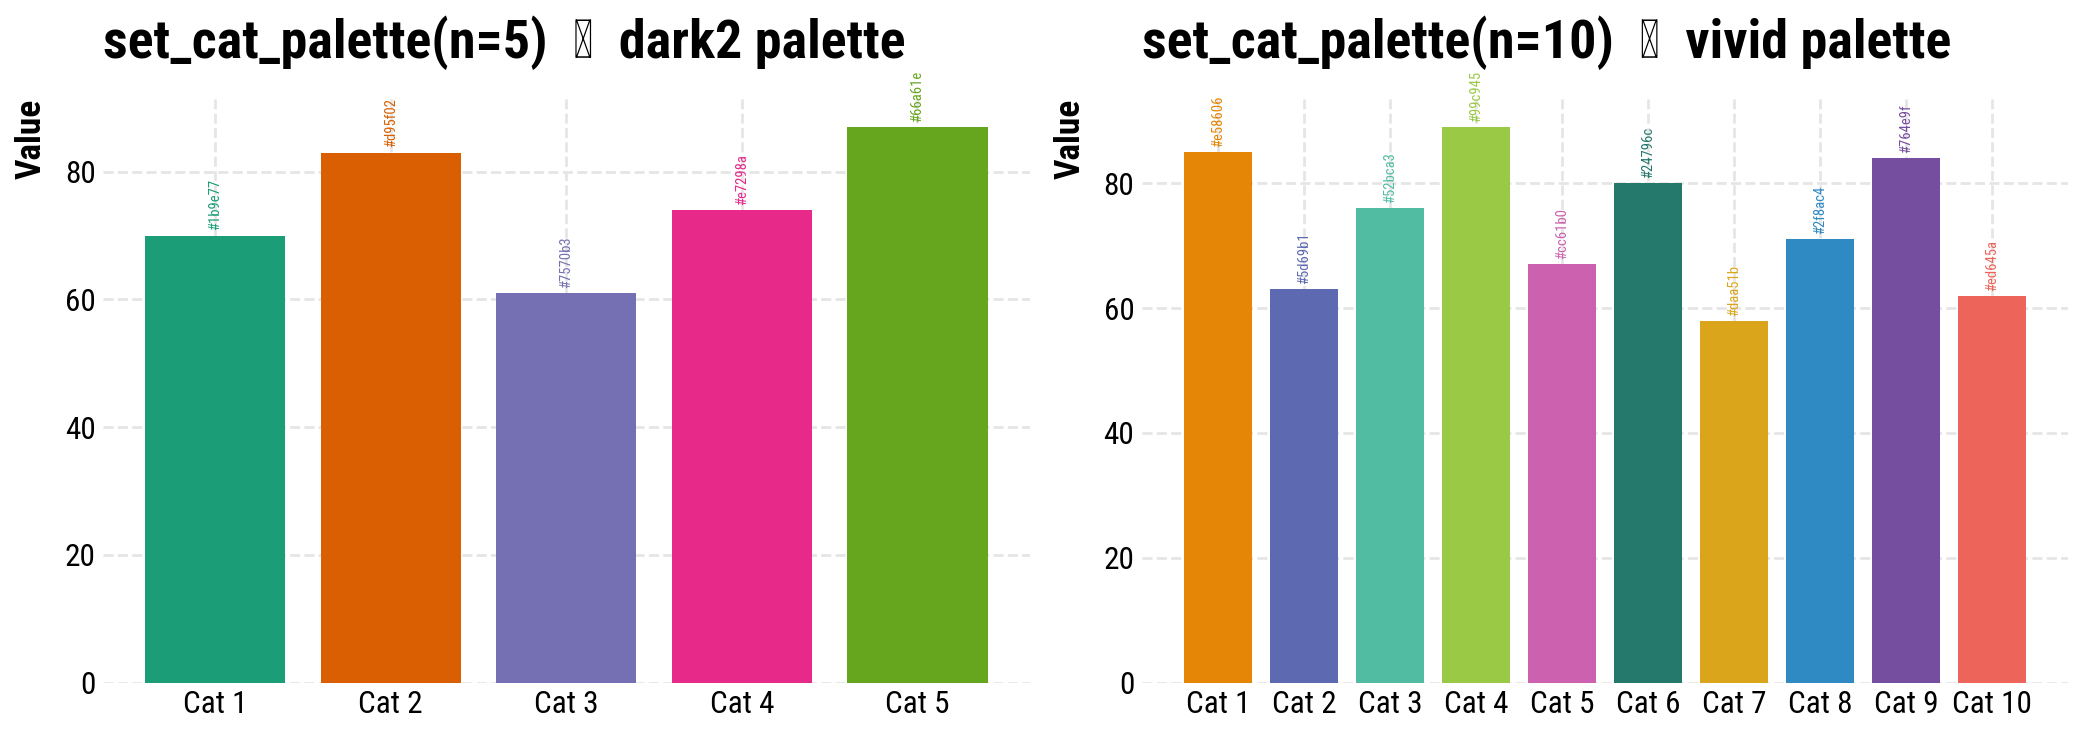
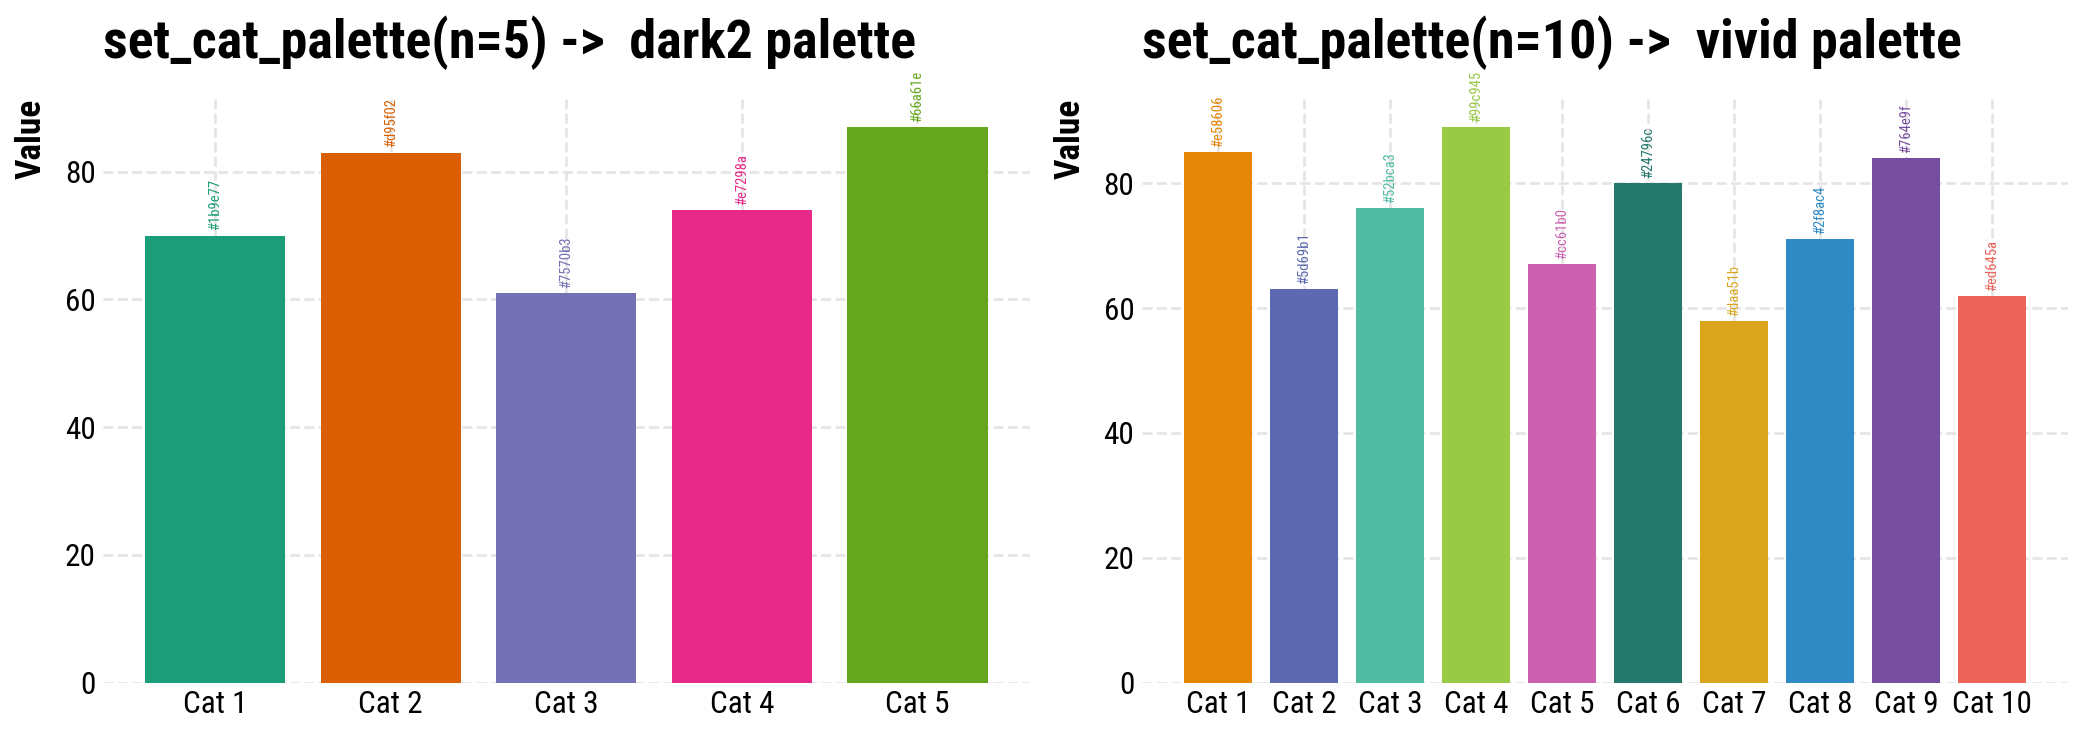
Fix plot title

Changed region(s): [[0.2496, 0.03, 0.4369, 0.0899], [0.7801, 0.03, 0.9361, 0.0899]]

diff --git a/evaplot/bin/generate_readme.py b/evaplot/bin/generate_readme.py
@@ -74,7 +74,7 @@ def _generate_color_palette_plot(output_dir: Path) -> str:
         ax.set_xticks(range(n))
         ax.set_xticklabels(categories)
         palette_name = "dark2" if n <= 8 else "vivid"
-        ax.set_title(f"set_cat_palette(n={n})  →  {palette_name} palette")
+        ax.set_title(f"set_cat_palette(n={n}) ->  {palette_name} palette")
         ax.set_xlabel("")
         ax.set_ylabel("Value")
     fig.tight_layout()